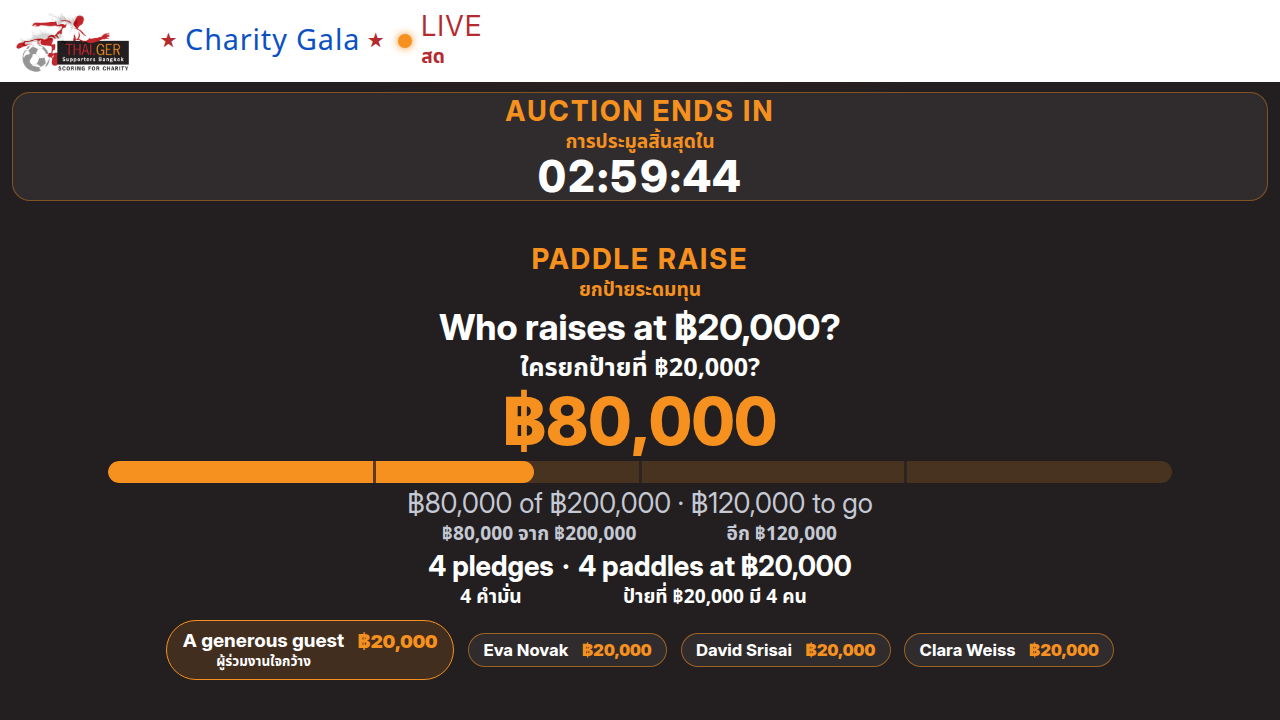
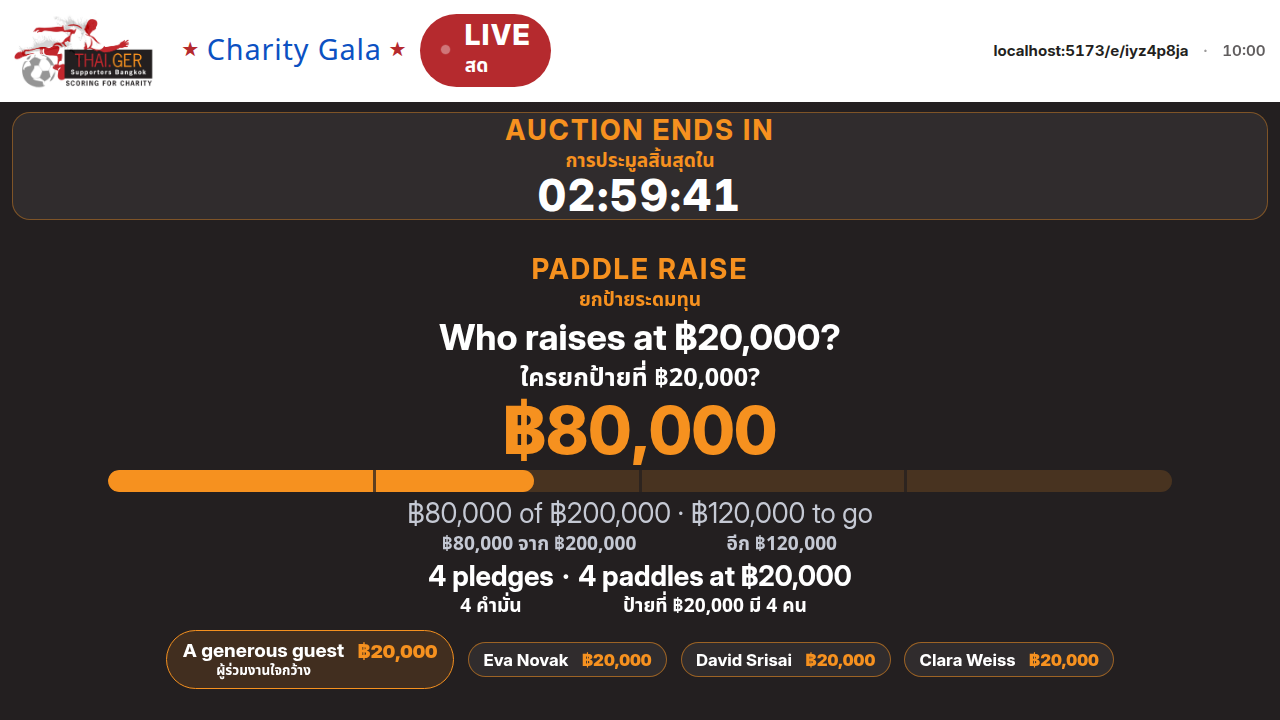
Separate the join link from the clock and refresh the review shots.
A middot keeps the projector bar calm, and the 720p plate has a little more air above the logo. The review images match the retaken screens.

Changed region(s): [[0.0625, 0.3361, 0.9375, 0.9778], [0.0, 0.0, 1.0, 0.3056]]

diff --git a/web/src/pages/EngagerPage.tsx b/web/src/pages/EngagerPage.tsx
@@ -384,6 +384,7 @@ export function EngagerPage() {
         </div>
         <p className="engager-bar-meta">
           {joinUrl && <span className="engager-join">{shortUrl(joinUrl)}</span>}
+          <span className="engager-bar-dot" aria-hidden="true">·</span>
           <time dateTime={new Date(serverNow).toISOString()}>{formatTimeInZone(serverNow, tz)}</time>
         </p>
       </header>

diff --git a/web/src/styles.css b/web/src/styles.css
@@ -305,6 +305,7 @@ textarea { min-height: 70px; }
   white-space: nowrap;
 }
 .engager-bar-meta time { font-weight: 600; opacity: 0.72; }
+.engager-bar-dot { opacity: 0.45; }
 .stats-grid .stat,
 .stats-grid > div {
   background: color-mix(in srgb, var(--card) 70%, transparent);

diff --git a/web/public/themes/thaiger.css b/web/public/themes/thaiger.css
@@ -450,7 +450,7 @@
     max-width: min(34vw, 380px);
     margin-right: 0.85rem;
   }
-  [data-theme="thaiger"] .engager header { padding: 0.55rem 0.9rem; }
+  [data-theme="thaiger"] .engager header { padding: 0.7rem 0.9rem; }
 }
 
 @media (prefers-reduced-motion: reduce) {

diff --git a/docs/ux-review.md b/docs/ux-review.md
@@ -68,4 +68,4 @@ The bid card already had the centred amount, −/+, the leader, and a filled `Bi
 
 ## Checked
 
-No console errors on the seeded pass. Web typecheck, web tests, API tests and the web build were run on this branch. Thai at 1080p is 33.3px. The logo aspect on the guest header is 64px tall by 114px wide, which is 1280×719.
+No console errors on the seeded pass. Web typecheck, web tests, API tests and the web build were run on this branch. Thai at 1080p is 33.3px. The logo aspect on the guest header is 64px tall by 114px wide, which is 1280×719. On the projector the same file is 123px tall at 1080p (79px at 720p), on the white band with clear space. Live is a red pill; closed is solid ink. The last minute is one centre timer, and the closed screen leads with thank-you and the total.
